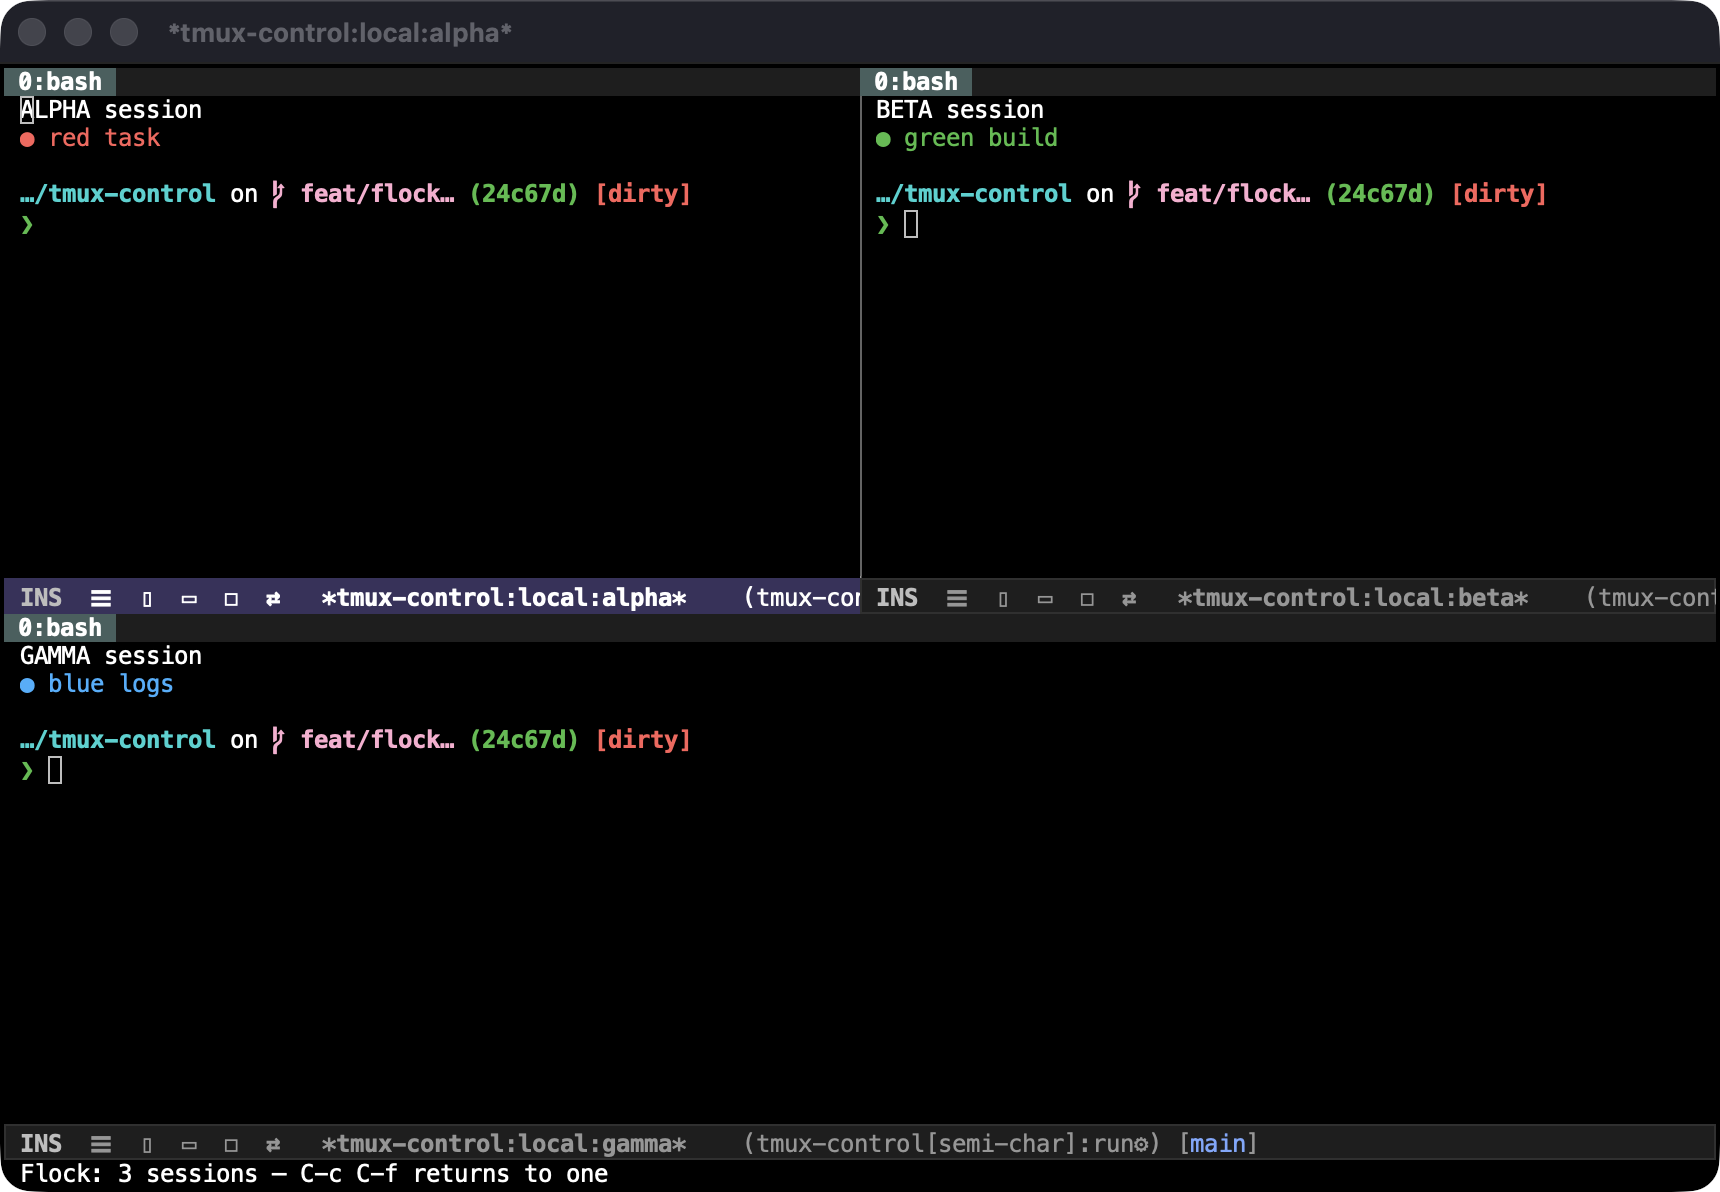
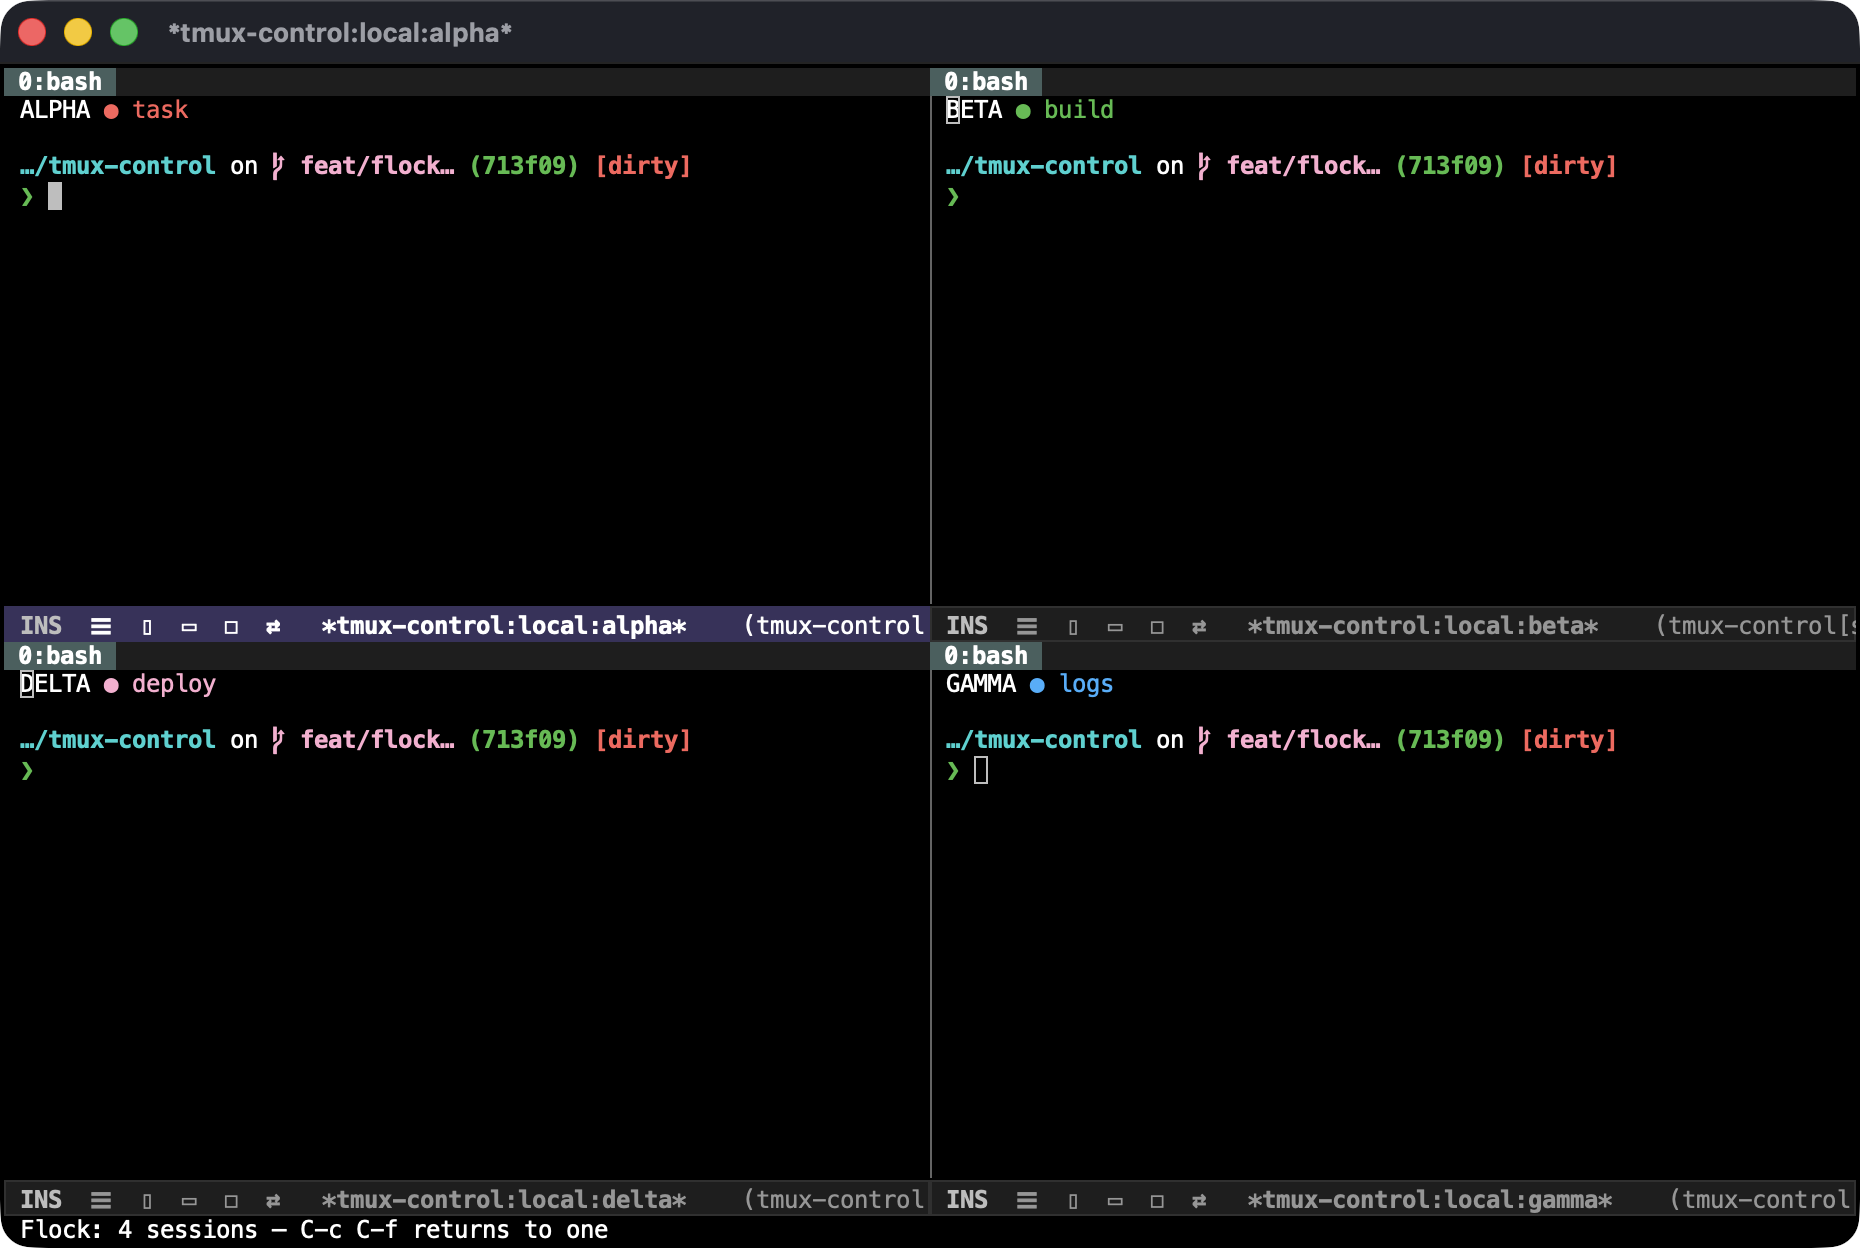
flock: C-u connects all host sessions before tiling
Make the dashboard a one-keystroke "show me everything": with a prefix
argument, `tmux-control-flock' / `tmux-control-toggle-flock' (C-u C-c C-f)
first connects every session on the current buffer's host/socket
(`--connect-all-sessions', under `save-window-excursion' so the in-flight
connects don't disturb the layout the flock is about to build), then tiles
them all -- instead of only the sessions you happened to open.

Without the prefix the behaviour is unchanged (tile the already-connected
sessions); the "only one session" error now points at `C-u C-c C-f'.

Verified live: with only one session connected, C-u C-c C-f connected the
other three and tiled a clean 2x2 (windows=4, live-sessions=4), each cell
live with its own colors/tab-bar/label. Updated the hero screenshot to the
2x2. Unit test covers connect-all skipping already-live sessions. 81 unit
green, byte-compile clean.

diff --git a/docs/guide.md b/docs/guide.md
@@ -75,8 +75,10 @@ over buffers that are already live — no extra connections.
 - Each session is sized to its cell while flocked (like the tiled pane view);
   `C-c C-f` again — or `M-x tmux-control-unflock` — returns to the single
   session under point, resized to the full window.
-- Connect the sessions you want first (`tmux-control-connect` /
-  `tmux-control-select-session`); the flock shows the ones currently connected.
+- By default it tiles the sessions you have already connected
+  (`tmux-control-connect` / `tmux-control-select-session`).  With a prefix
+  argument — `C-u C-c C-f` — it first connects *every* session on the host and
+  socket, so one keystroke gives you the whole host.
 
 Like the tiled view it takes the **whole frame** and resizes each session to
 its cell, so a session also attached elsewhere (another client) follows tmux's
